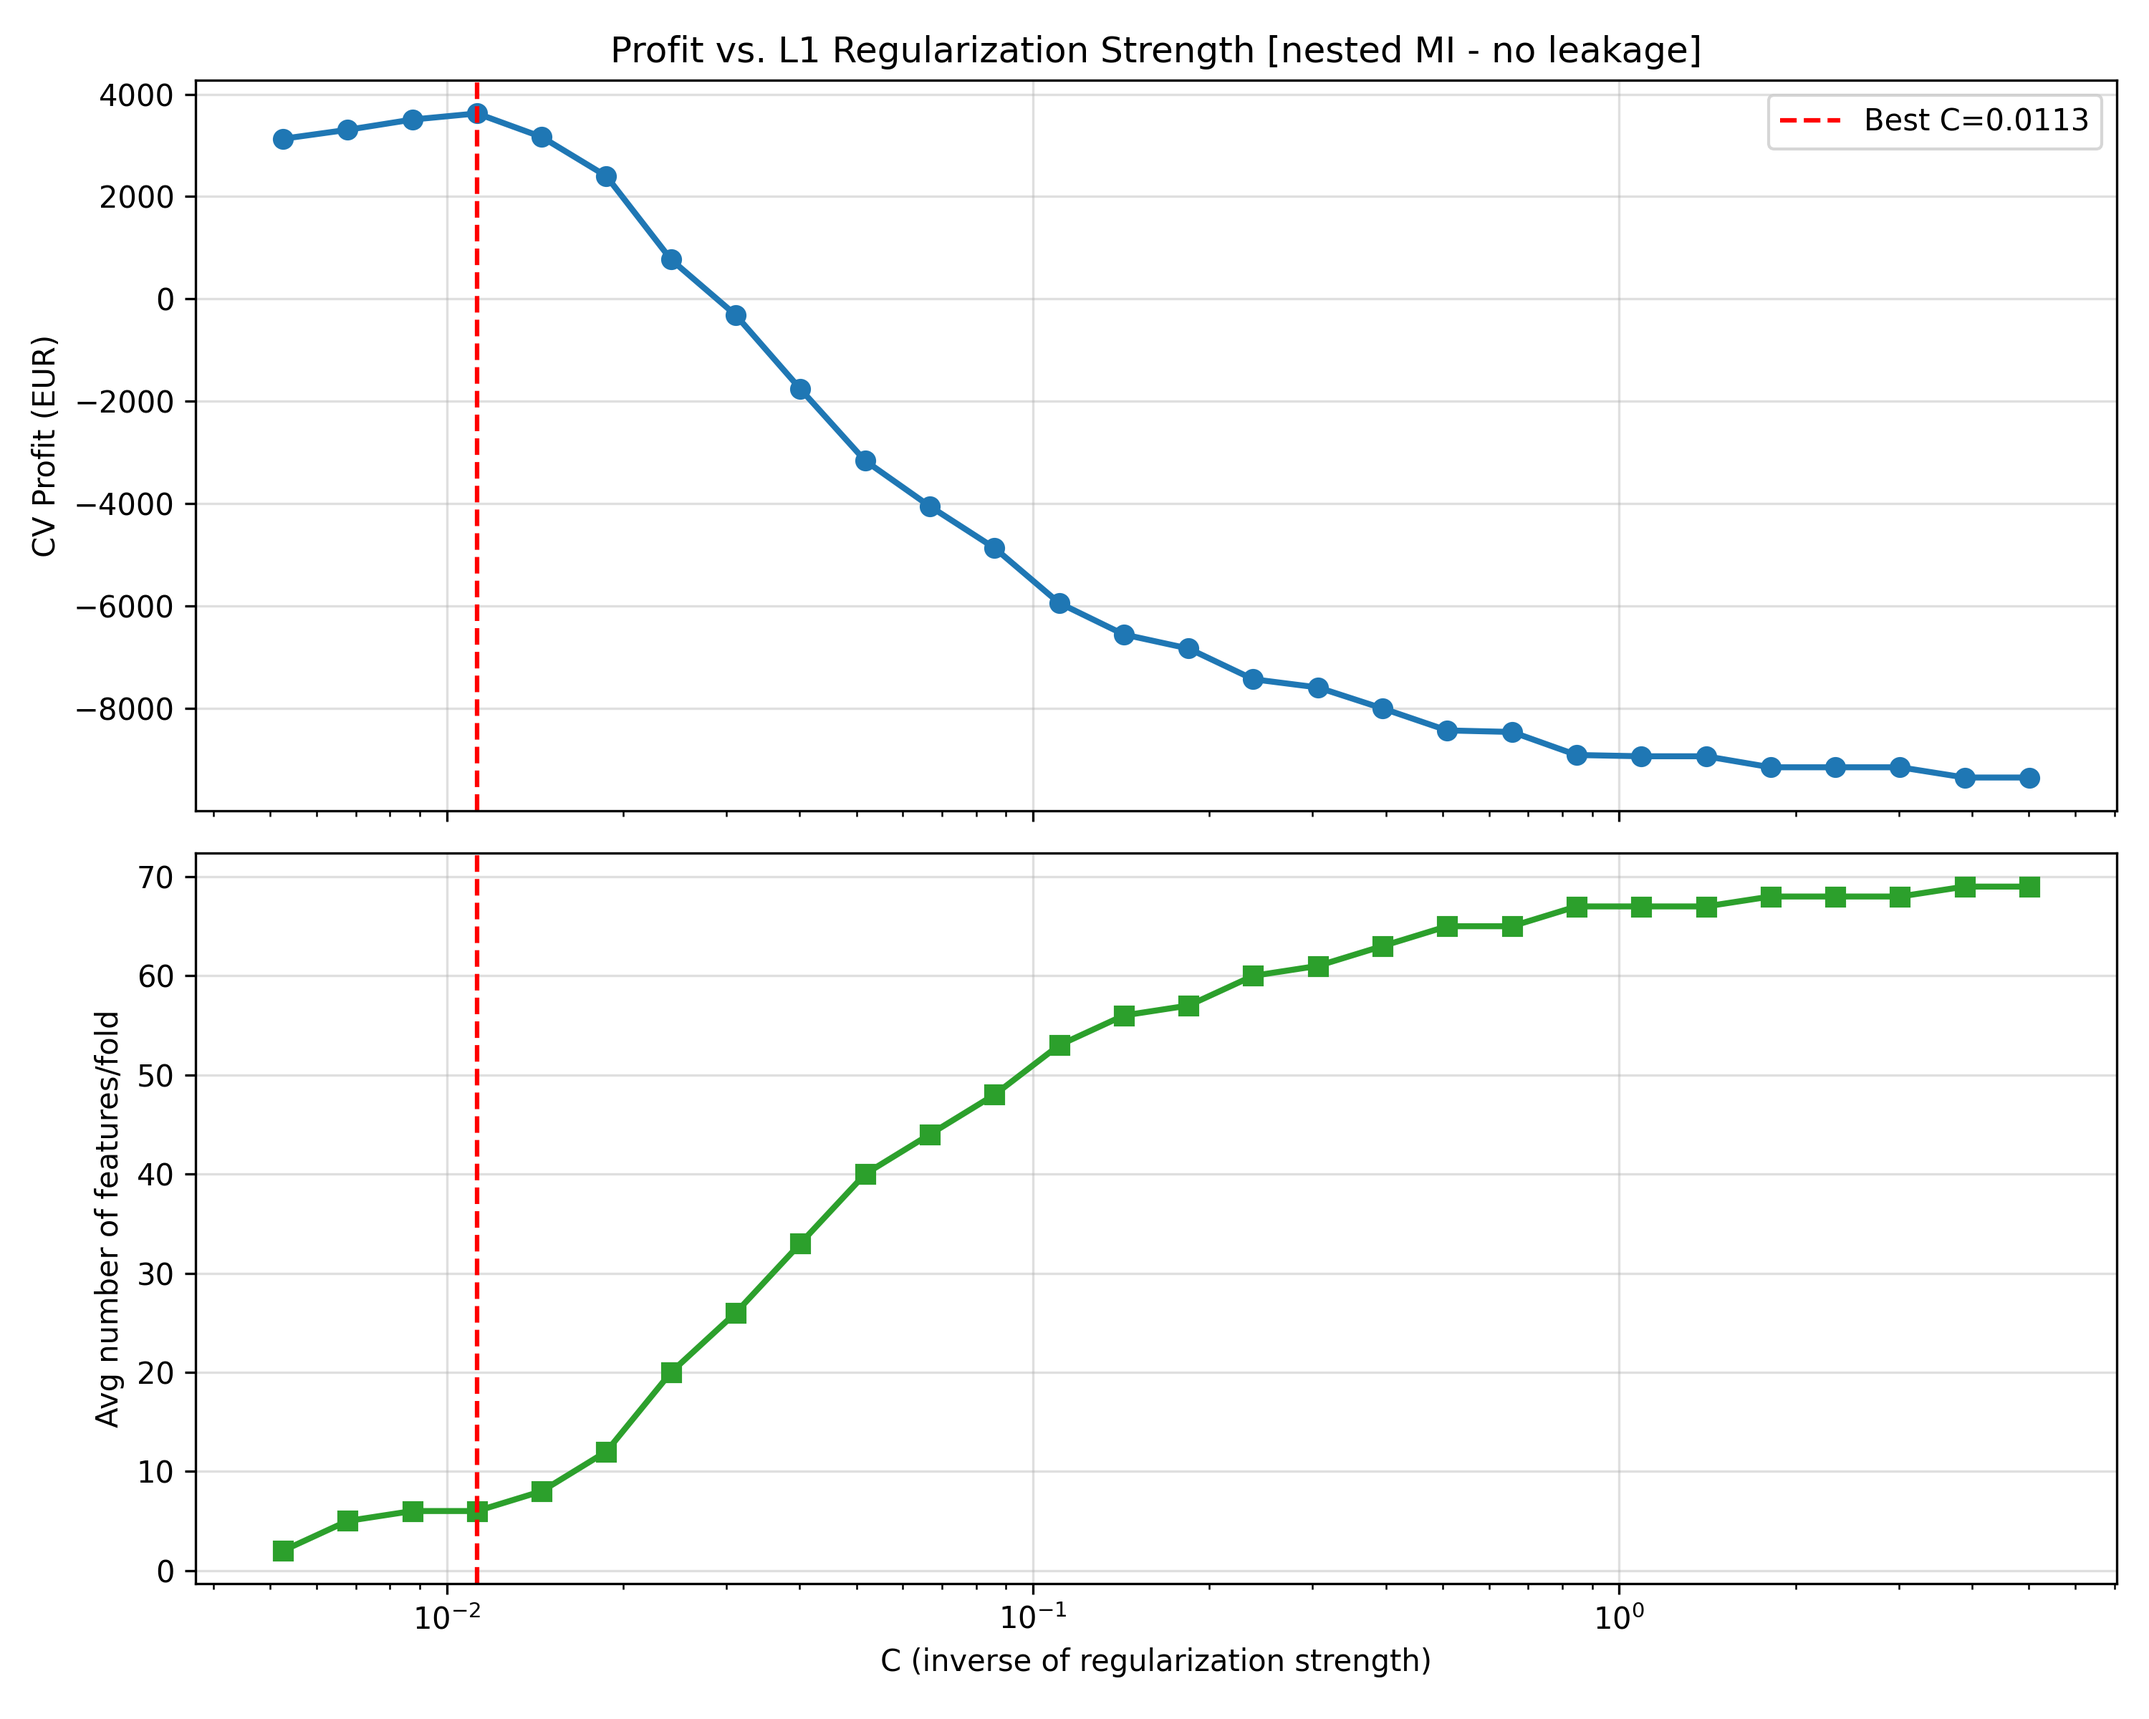
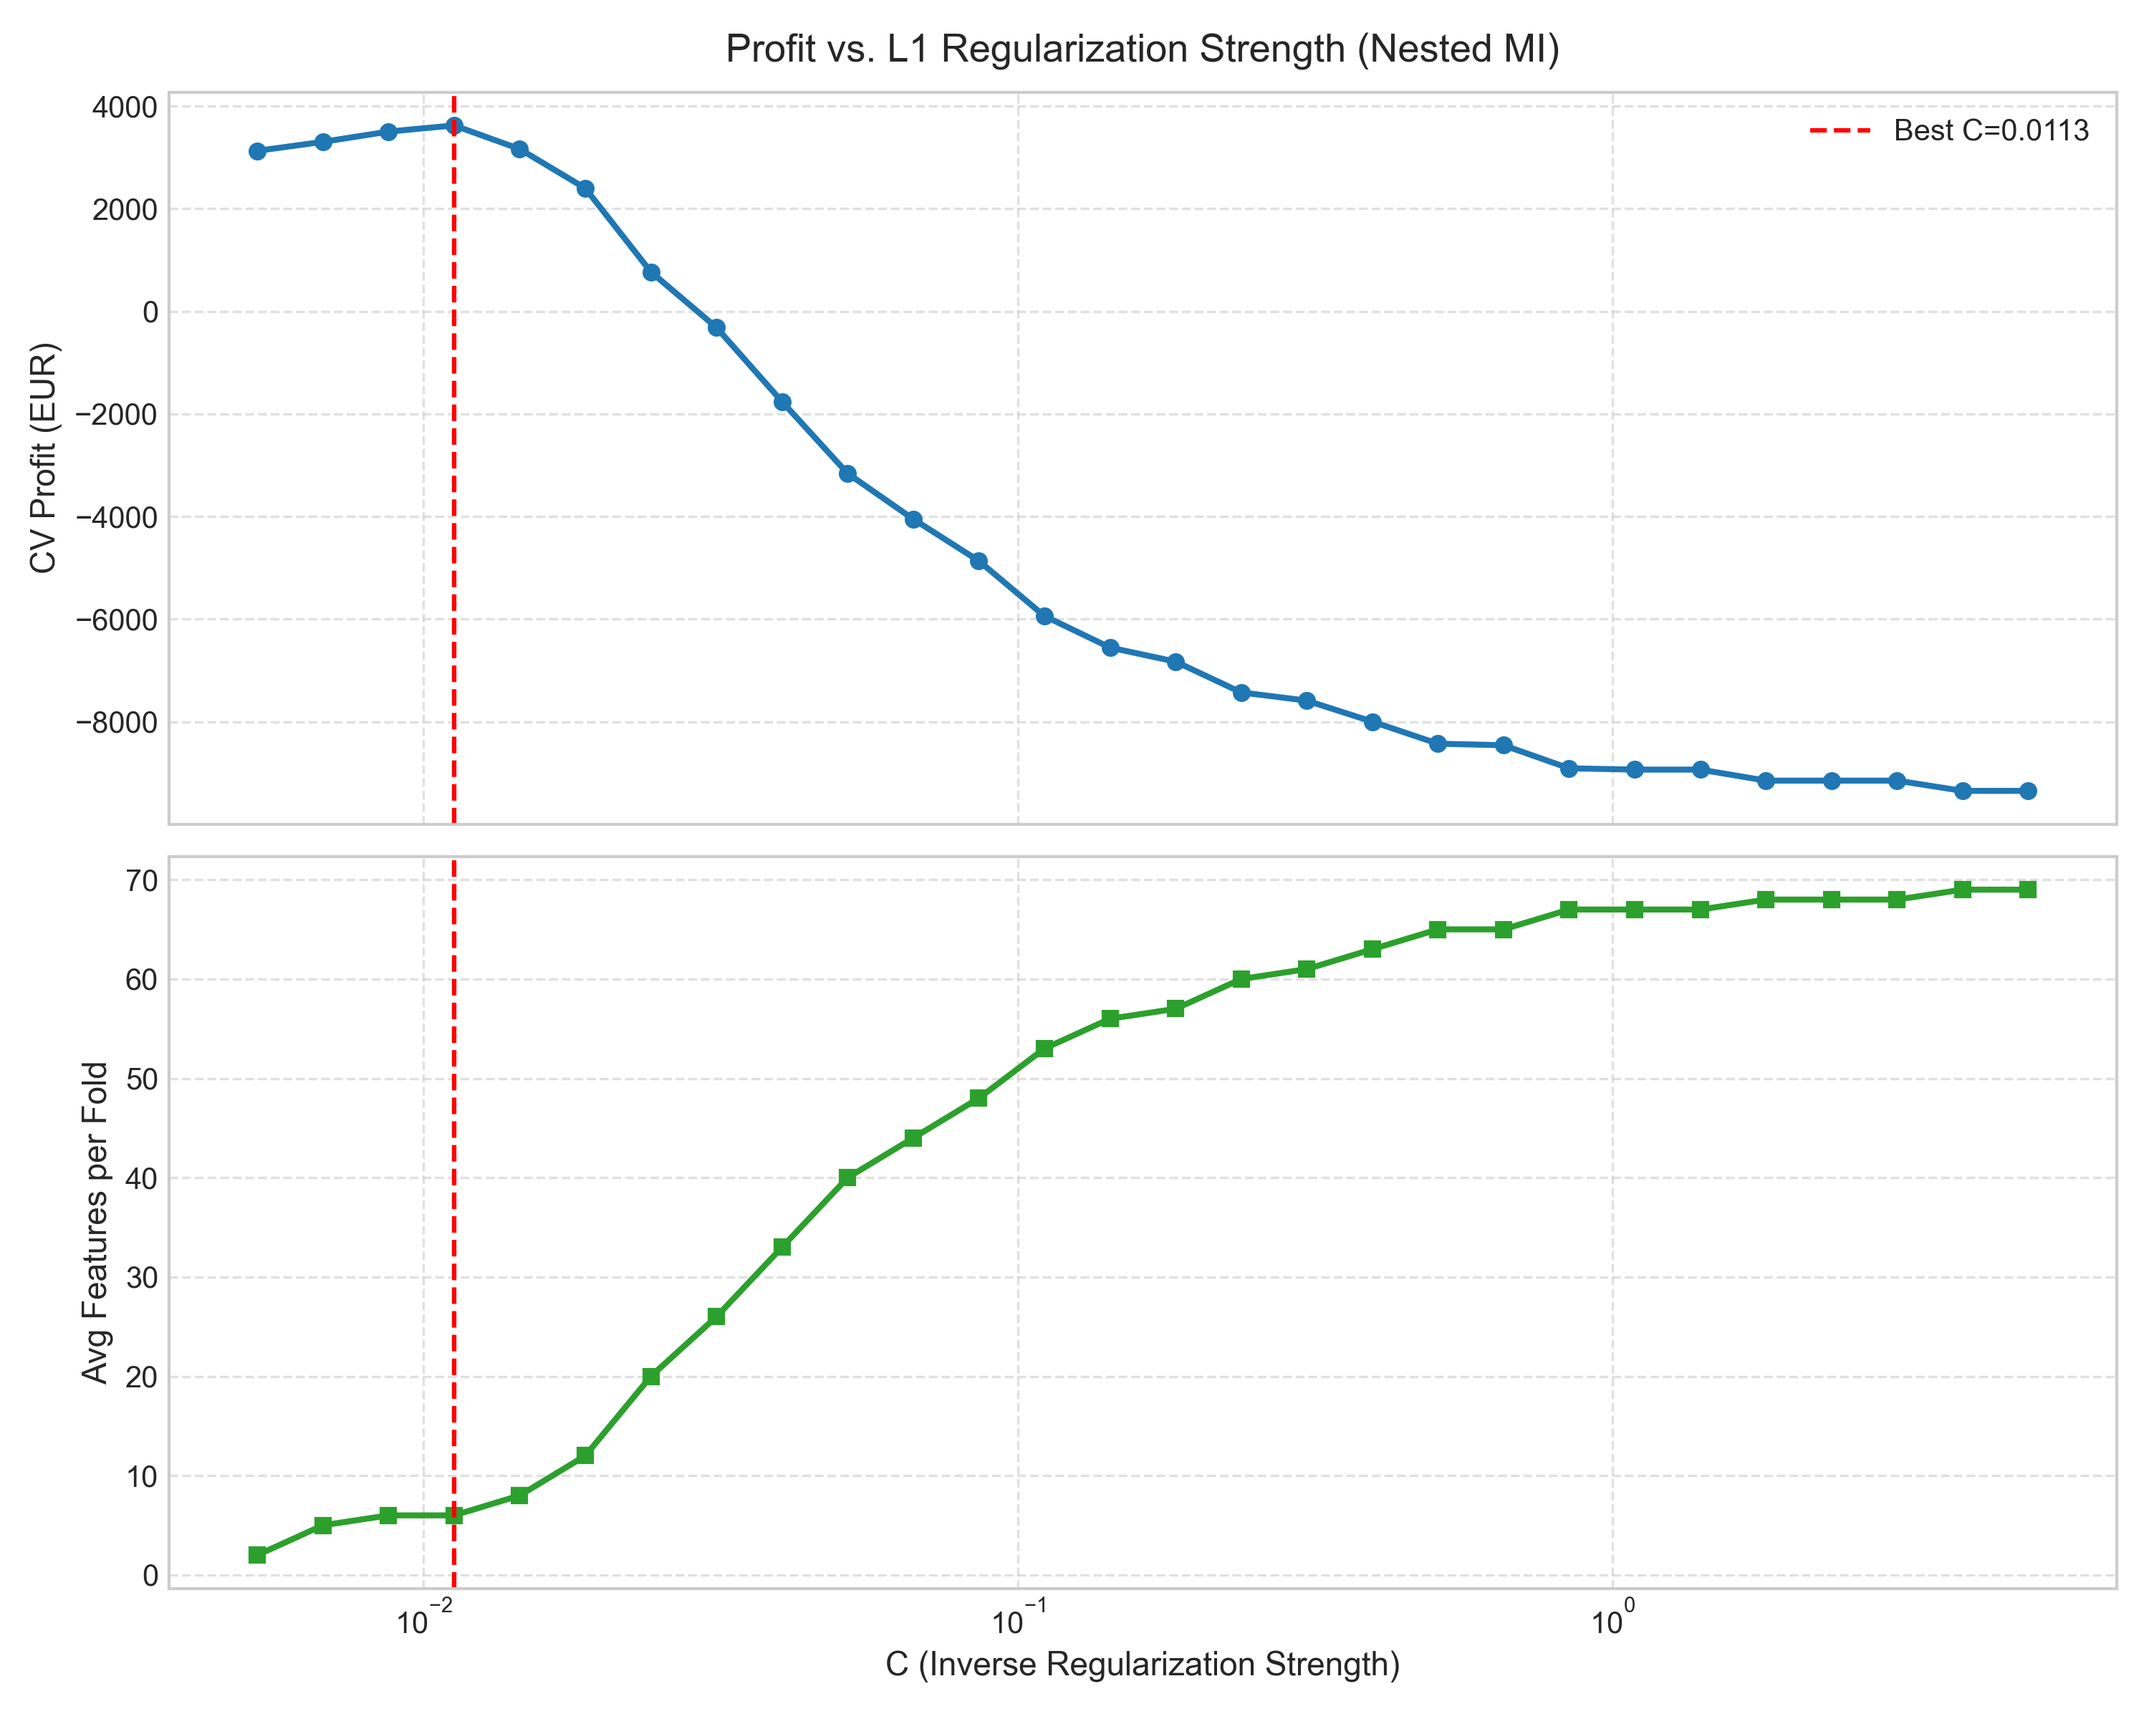
some changes according to data leakage and others

diff --git a/code/models/lasso_strategy.py b/code/models/lasso_strategy.py
@@ -303,29 +303,17 @@ def run_lasso(
         f"| avg features in CV = {int(best_row['n_features'])}"
     )
 
+    from core.plotting import plot_lasso_sweep, plot_feature_importance, plot_probability_distribution
     # ── Plot ───────────────────────────────────────────────────────────────
-    df_plot = df_valid.copy()
-    fig, (ax1, ax2) = plt.subplots(2, 1, figsize=(10, 8), sharex=True)
-
-    ax1.plot(df_plot["C"], df_plot["cv_profit"], marker="o", color="#1f77b4", lw=2)
-    ax1.axvline(best_C, color="red", ls="--", label=f"Best C={best_C:.4f}")
-    ax1.set_ylabel("CV Profit (EUR)")
-    ax1.set_title("Profit vs. L1 Regularization Strength [nested MI - no leakage]")
-    ax1.legend()
-    ax1.grid(True, alpha=0.4)
-
-    ax2.plot(df_plot["C"], df_plot["n_features"], marker="s", color="#2ca02c", lw=2)
-    ax2.axvline(best_C, color="red", ls="--")
-    ax2.set_xlabel("C (inverse of regularization strength)")
-    ax2.set_ylabel("Avg number of features/fold")
-    ax2.set_xscale("log")
-    ax2.grid(True, alpha=0.4)
-
-    plt.tight_layout()
-    plot_path = os.path.join(output_dir, "lasso_regularization_sweep.png")
-    plt.savefig(plot_path, dpi=300)
-    plt.close()
-    print(f"Saved: {plot_path}")
+    plot_lasso_sweep(
+        c_values=df_valid["C"],
+        profit_values=df_valid["cv_profit"],
+        features_count=df_valid["n_features"],
+        best_c=best_C,
+        output_dir=output_dir,
+        filename="lasso_regularization_sweep.png"
+    )
+    print(f"Saved: {os.path.join(output_dir, 'lasso_regularization_sweep.png')}")
 
     # ---------------------------------------------------------------- #
     # STEP 3: Final feature set (MI on full data) + greedy pruning
@@ -424,6 +412,25 @@ def run_lasso(
     print(f"Final threshold : {final_thresh:.4f}")
     print(f"Optimal K       : {final_k} clients")
     print(f"CV profit (fair): {final_cv_profit:.1f} EUR")
+
+    plot_probability_distribution(
+        y,
+        oof_probs,
+        f"Lasso OOF Probabilities (Final {len(active_features)} Features)",
+        output_dir,
+        "lasso_prob_distribution.png"
+    )
+    print(f"Saved plot: {os.path.join(output_dir, 'lasso_prob_distribution.png')}")
+
+    plot_feature_importance(
+        active_features,
+        final_model.coef_[0],
+        "Lasso Final Coefficients",
+        output_dir,
+        "lasso_feature_importance.png",
+        top_n=30
+    )
+    print(f"Saved plot: {os.path.join(output_dir, 'lasso_feature_importance.png')}")
 
     with warnings.catch_warnings():
         warnings.simplefilter("ignore")

diff --git a/code/models/xgboost_strategy.py b/code/models/xgboost_strategy.py
@@ -84,27 +84,29 @@ def run_xgboost(
             best_profit = profit
             best_num_features = k
 
+    from core.plotting import plot_profit_optimization_curve, plot_feature_importance, plot_probability_distribution
     # ── Plot ───────────────────────────────────────────────────────────────
     features, profits = zip(*profit_ranking)
-    plt.figure(figsize=(10, 6))
-    plt.plot(features, profits, marker="o", linestyle="-", color="#1f77b4", linewidth=2)
-    plt.title("Profit Optimization Curve vs Number of Features (top-K evaluation)")
-    plt.xlabel("Number of Selected Features (Top K)")
-    plt.ylabel("Estimated OOF Profit (EUR)")
-    plt.axvline(
-        x=best_num_features,
-        color="red",
-        linestyle="--",
-        label=f"Optimum ({best_num_features} features)",
+    plot_profit_optimization_curve(
+        features,
+        profits,
+        x_label="Number of Selected Features (Top K)",
+        title="Profit Optimization Curve vs Number of Features (top-K evaluation)",
+        best_x=best_num_features,
+        output_dir=output_dir,
+        filename="xgboost_profit_optimization.png"
     )
-    plt.grid(True, linestyle="--", alpha=0.7)
-    plt.legend()
-    plt.tight_layout()
-
-    plot_path = os.path.join(output_dir, "feature_optimization_profit.png")
-    plt.savefig(plot_path, dpi=300)
-    plt.close()
-    print(f"Saved plot: {plot_path}")
+    print(f"Saved plot: {os.path.join(output_dir, 'xgboost_profit_optimization.png')}")
+    
+    plot_feature_importance(
+        importances.index.tolist(), 
+        importances.values, 
+        "XGBoost Initial Feature Importance", 
+        output_dir, 
+        "xgboost_feature_importance.png",
+        top_n=20
+    )
+    print(f"Saved plot: {os.path.join(output_dir, 'xgboost_feature_importance.png')}")
 
     top_features = importances.index[:best_num_features].tolist()
     print("-" * 55)
@@ -126,6 +128,15 @@ def run_xgboost(
 
     print(f"  Final K          : {final_k} clients")
     print(f"  Final CV profit  : {final_cv_profit:.1f} EUR")
+
+    plot_probability_distribution(
+        y_train.values, 
+        oof_probs_final, 
+        f"XGBoost OOF Probabilities (Final {best_num_features} Features)", 
+        output_dir, 
+        "xgboost_prob_distribution.png"
+    )
+    print(f"Saved plot: {os.path.join(output_dir, 'xgboost_prob_distribution.png')}")
 
     # ── Step 4: retrain on all data, predict test set, take top final_k ───
     final_model = xgb.XGBClassifier(**xgb_params)

diff --git a/code/core/plotting.py b/code/core/plotting.py
@@ -4,7 +4,7 @@ import seaborn as sns
 import numpy as np
 import pandas as pd
 
-# Set a consistent beautiful style
+# Set a consistent style
 plt.style.use('seaborn-v0_8-whitegrid')
 sns.set_palette("muted")
 
